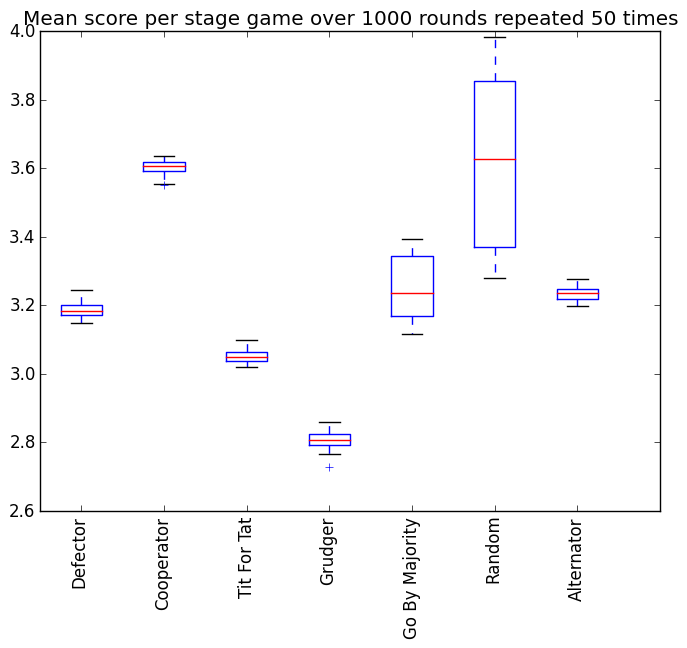
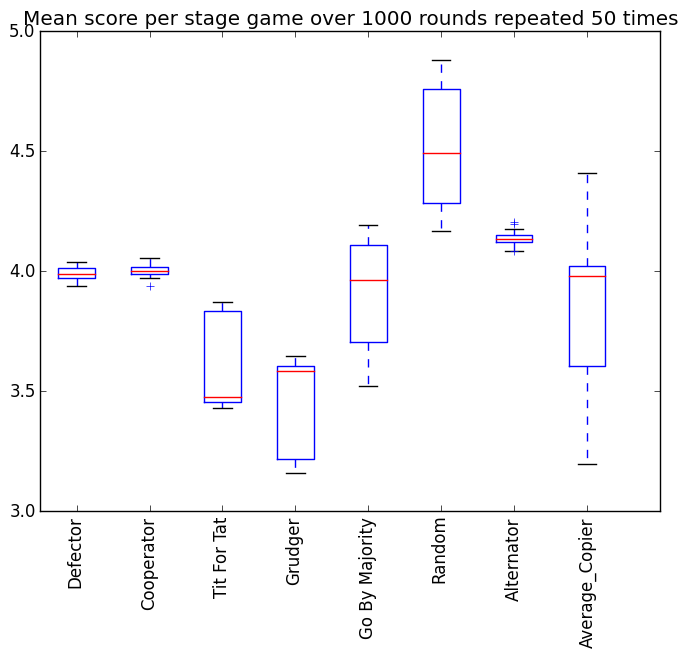
Added Average_Copier strategy (no tests sorry)

diff --git a/axelrod/strategies/average_copier.py b/axelrod/strategies/average_copier.py
@@ -1,0 +1,24 @@
+from axelrod import Player
+import random
+
+class Average_Copier(Player):
+    """
+    The player will cooperate with probability p if the opponent's cooperation ratio is p
+    """
+    def strategy(self, opponent):
+        """
+        Randomly picks a strategy (not affected by history)
+        """
+        if len(opponent.history) == 0:
+            return random.choice(['C', 'D'])
+        p = sum([s == 'C' for s in opponent.history]) / len(opponent.history)
+        rnd_num = random.random()
+        if rnd_num < p:
+            return 'C'
+        return 'D'
+
+    def __repr__(self):
+        """
+        The string method for the strategy:
+        """
+        return 'Average_Copier'

diff --git a/axelrod/strategies/__init__.py b/axelrod/strategies/__init__.py
@@ -5,6 +5,7 @@ from rand import *
 from titfortat import *
 from gobymajority import *
 from alternator import *
+from average_copier import *
 
 
 strategies = [
@@ -15,4 +16,5 @@ strategies = [
         GoByMajority,
         Random,
         Alternator,
+        Average_Copier,
         ]
